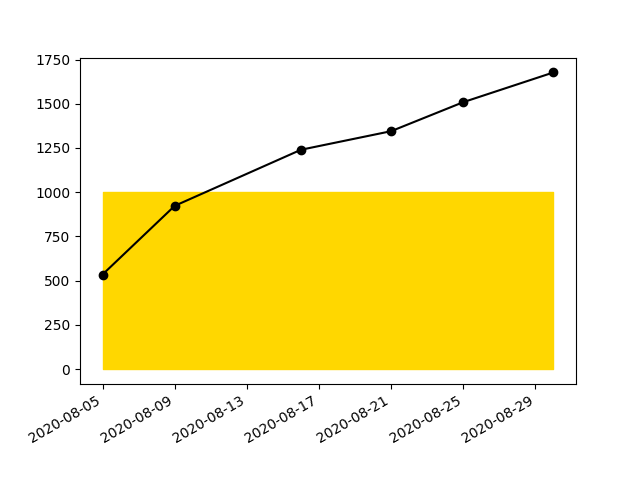
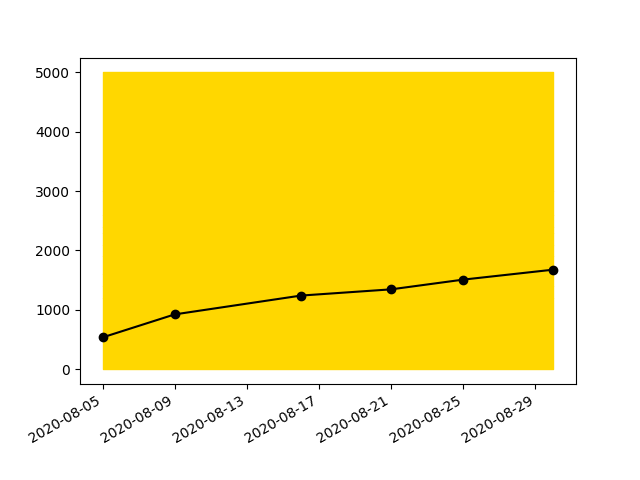
fill zones

diff --git a/fmt.py b/fmt.py
@@ -86,7 +86,9 @@ time_data = [datetime.datetime(year=y, month=m, day=d) for (y, m, d) in time_dat
 
 plt.plot(time_data, rating_data, marker="o", color='black')
 plt.gcf().autofmt_xdate()
-plt.fill_between(time_data, 0, 1000, color='gold')
+
+for i in range(1, len(titles)):
+    plt.fill_between(time_data, titles[i-1][0], titles[i][0], color='gold')
 
 main += graph_template.format(src=graph_fname)
 
